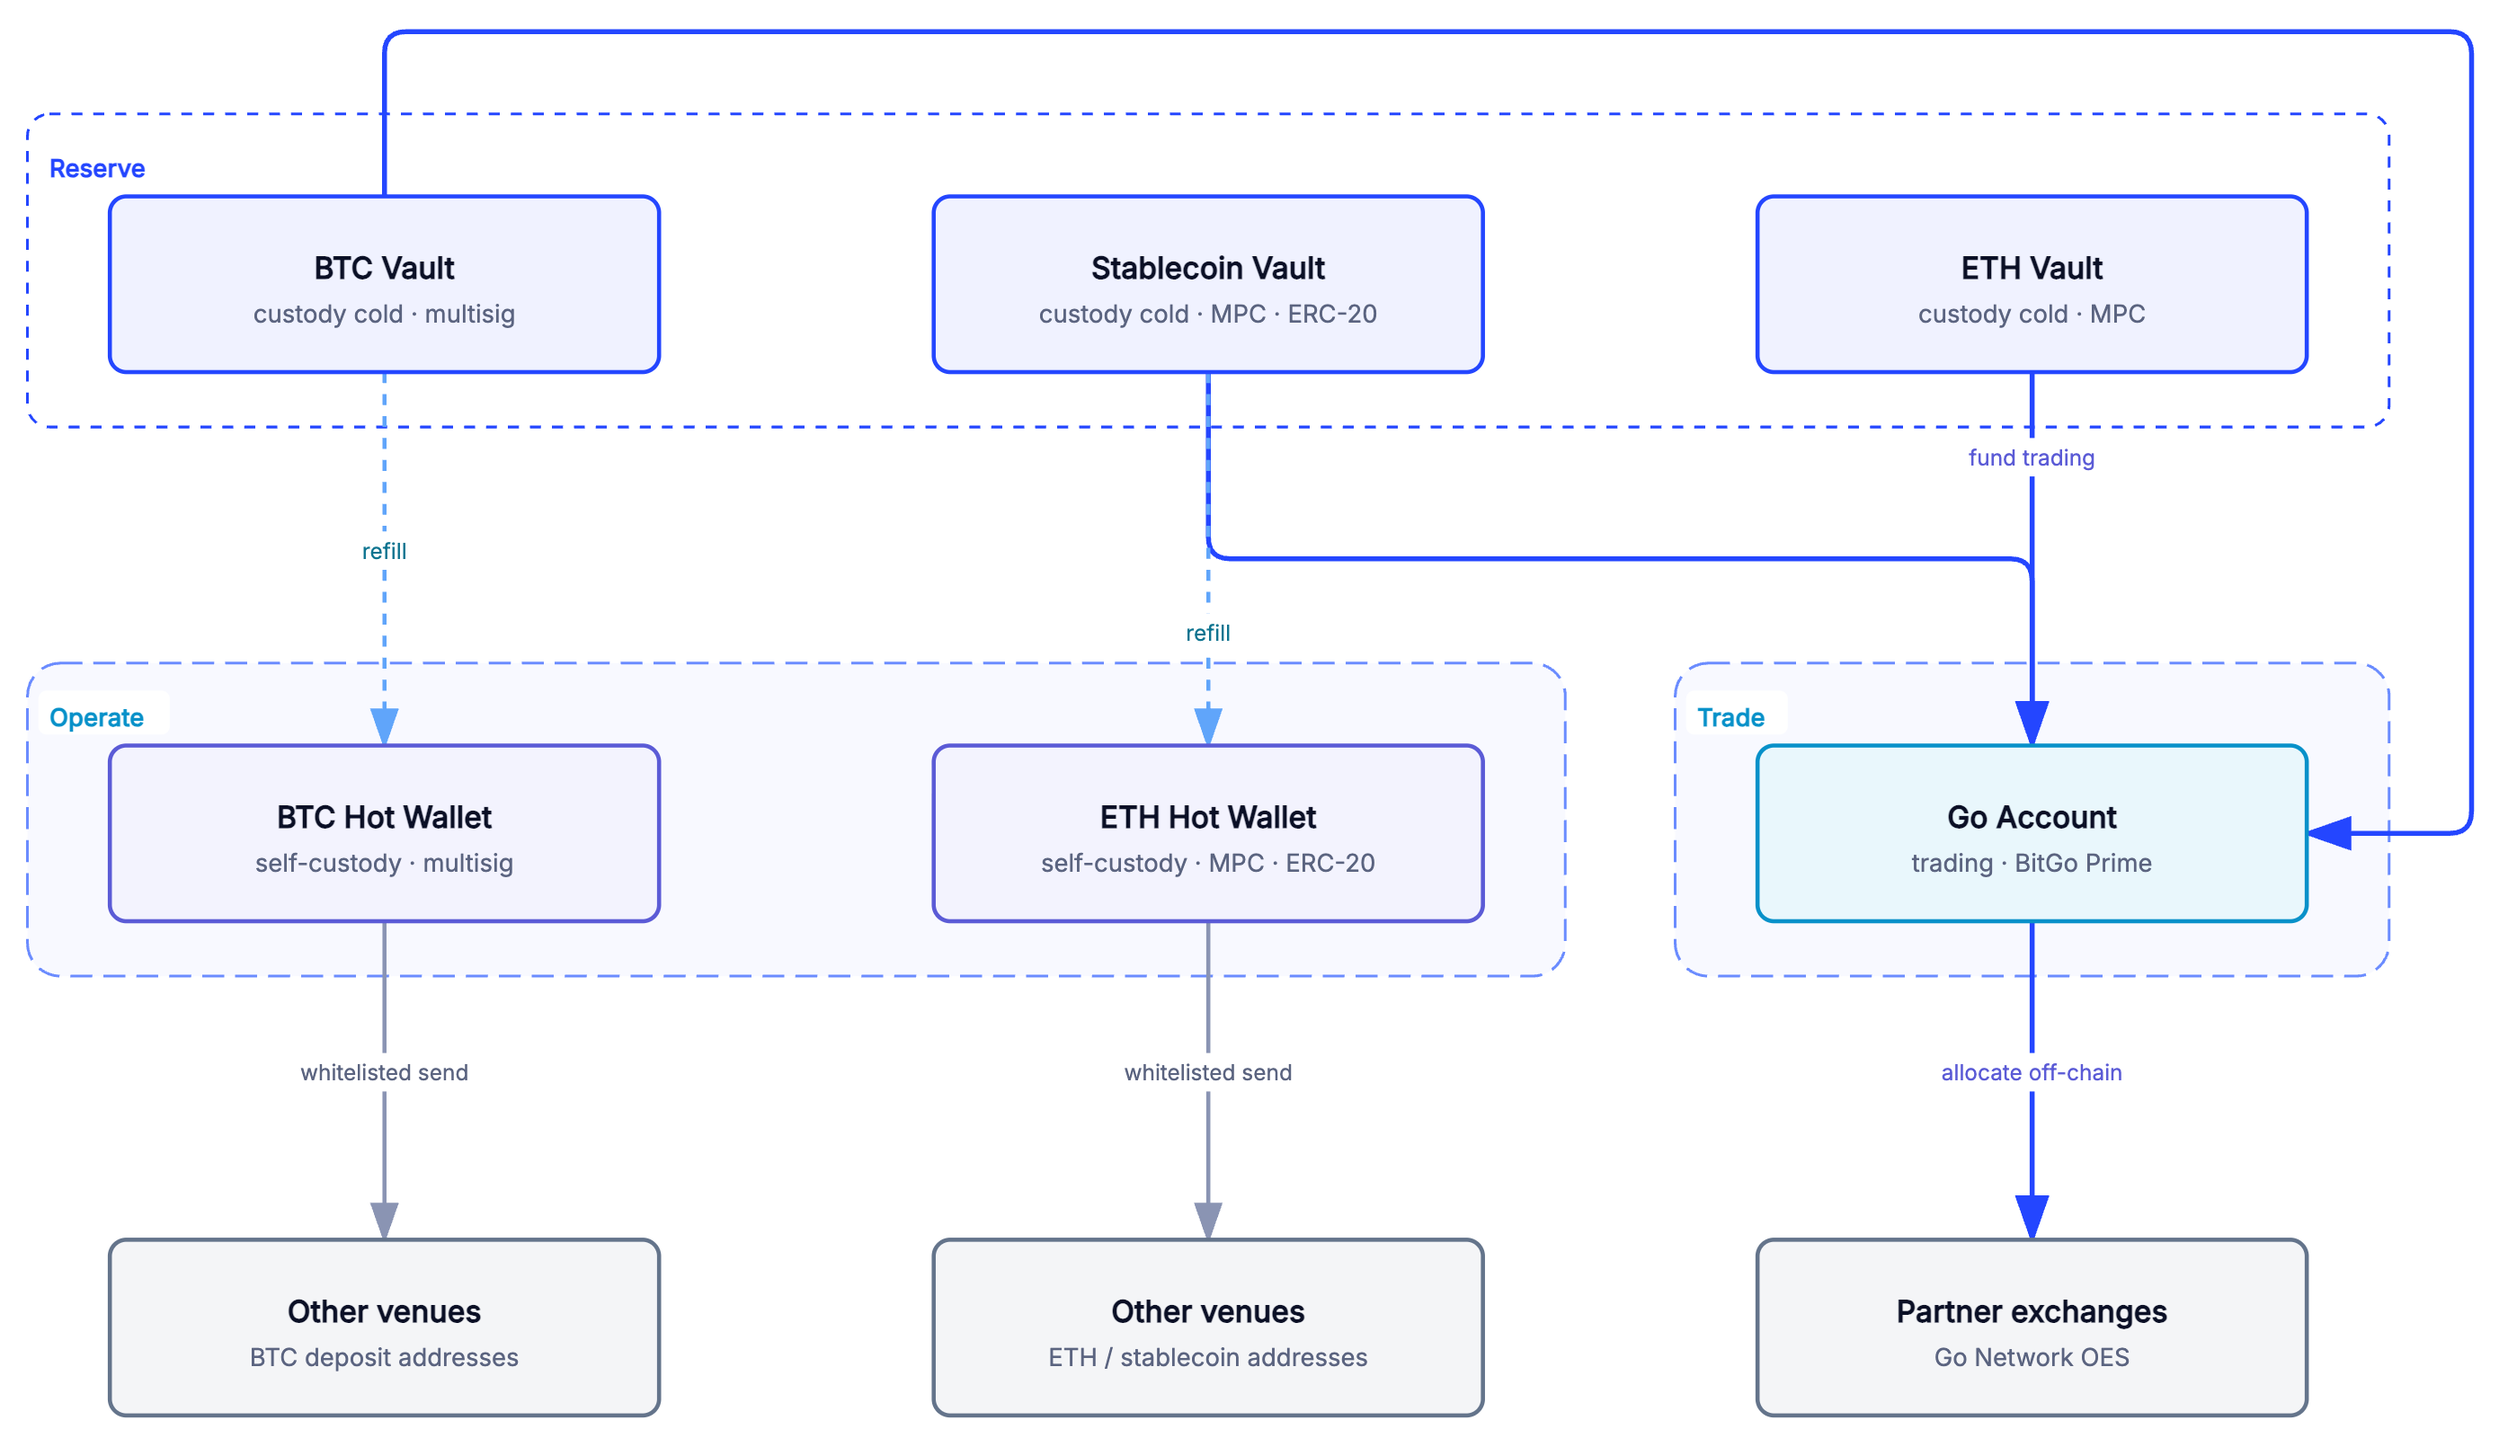
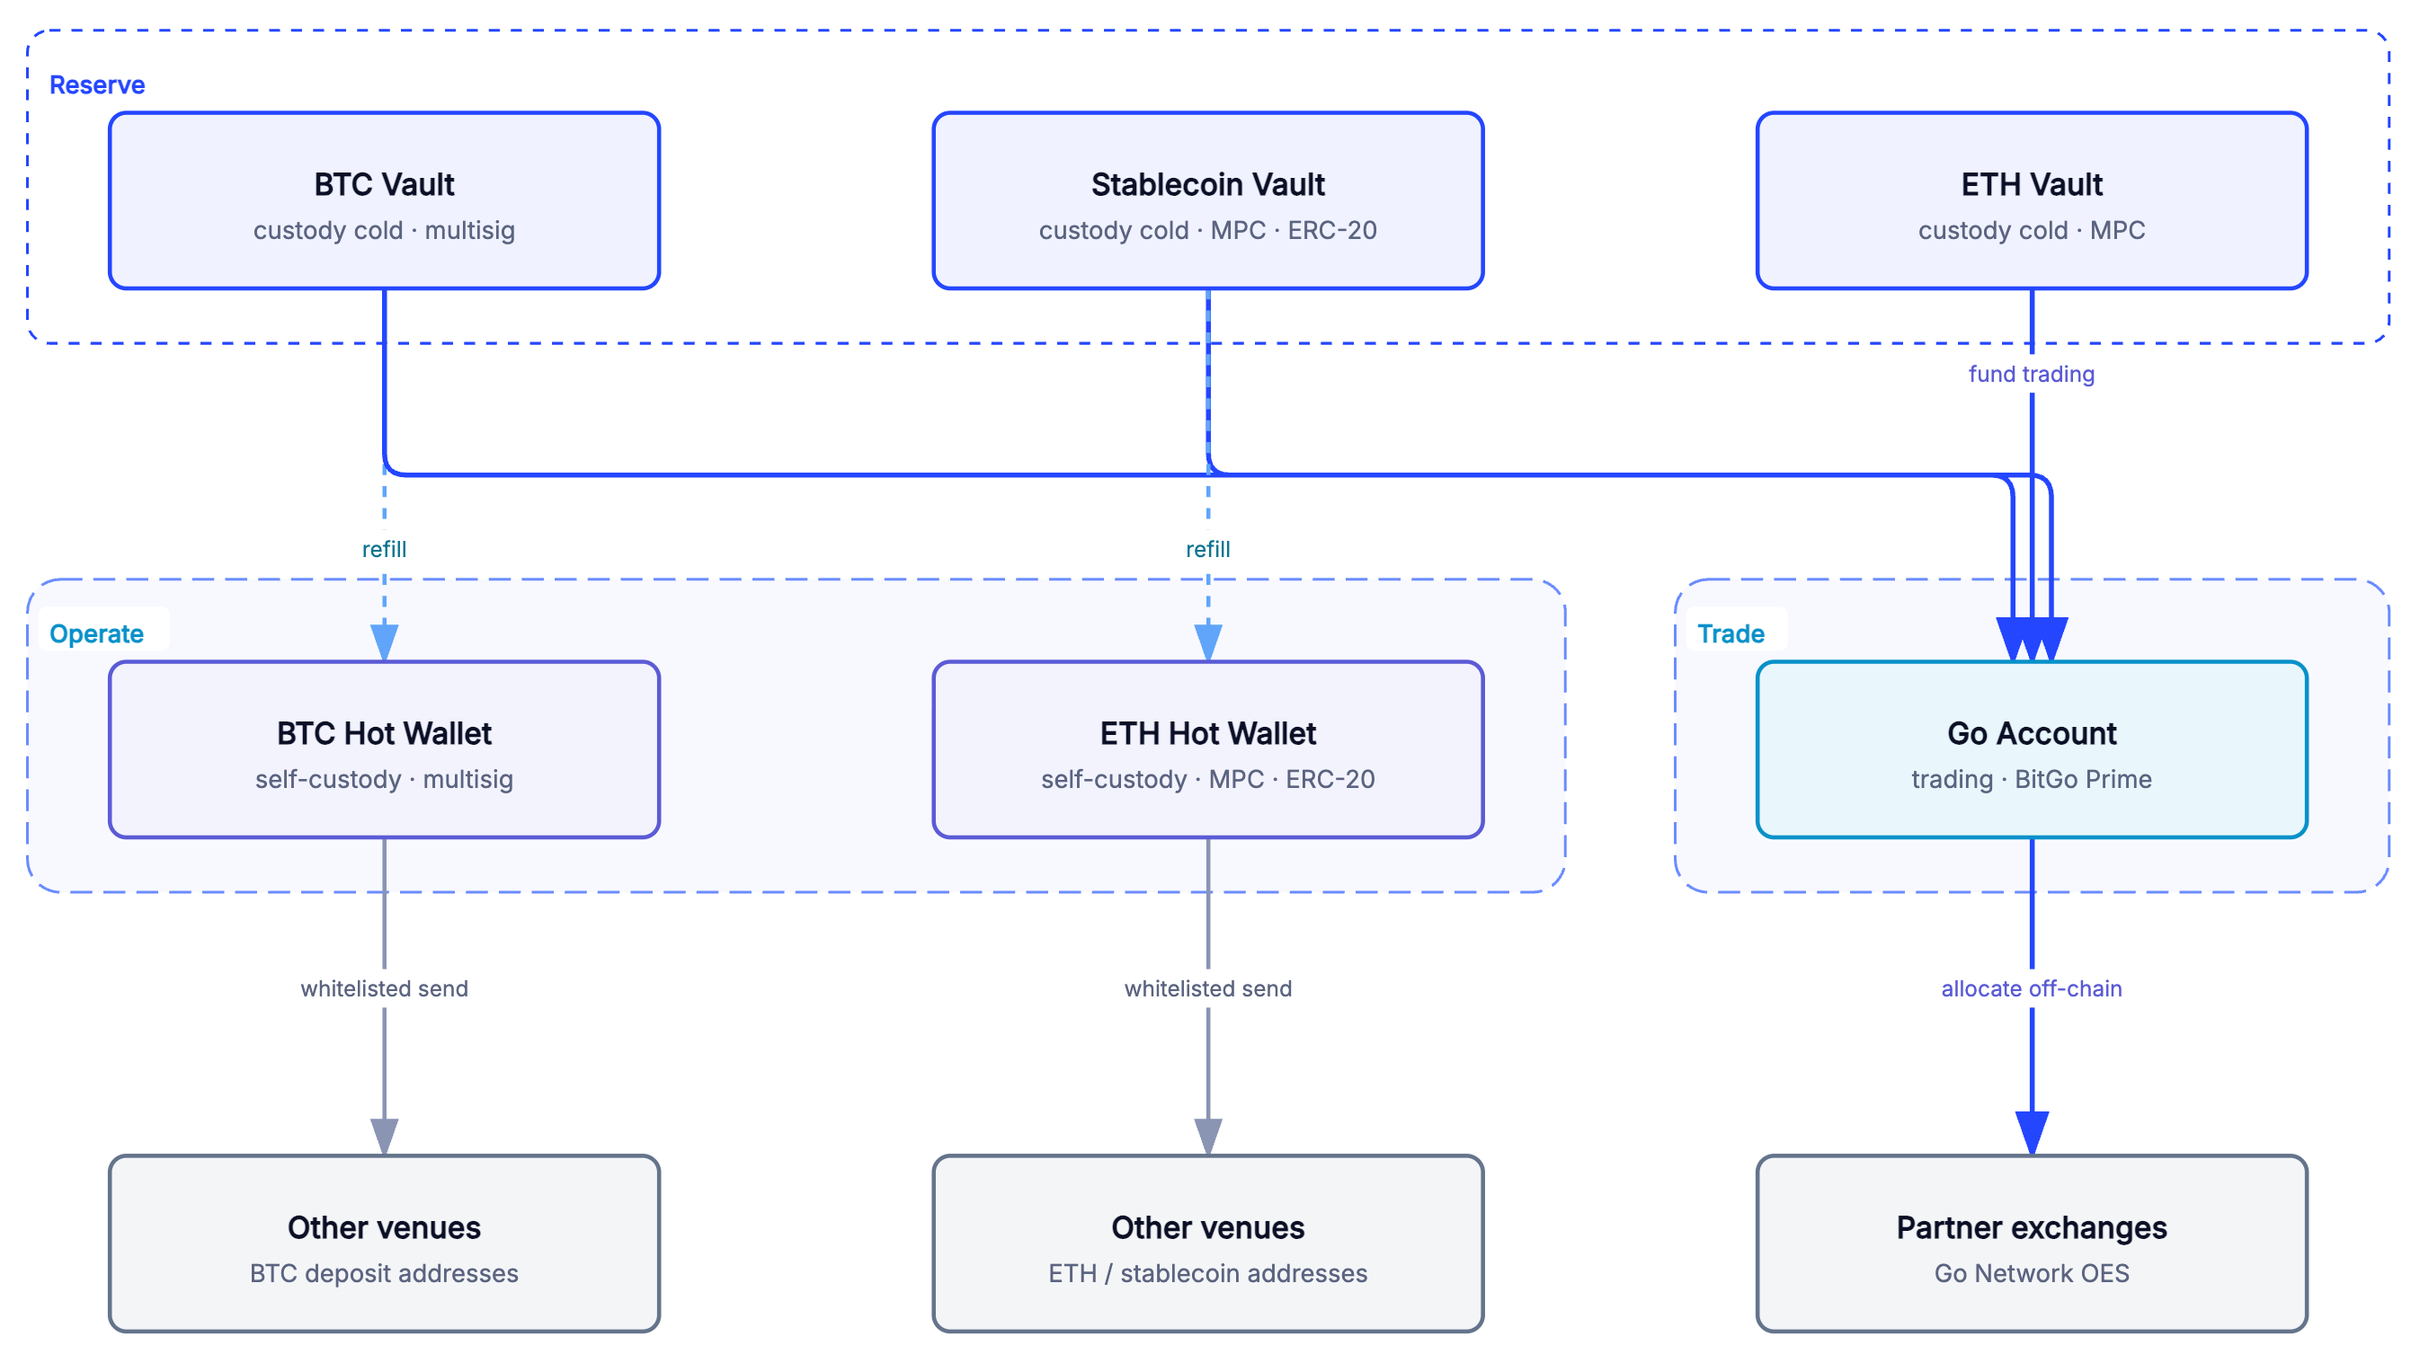
P6 diagram: route BTC funding line through the middle
Compact layout with one accepted crossing; delivered at Archify
standard quality (showcase flags only that crossing).

Claude-Session: https://claude.ai/code/session_01ASWXrKZgVRwzFhRSUgvQmX

diff --git a/slides/bitgo-hedge-fund-pitch/index.tsx b/slides/bitgo-hedge-fund-pitch/index.tsx
@@ -326,7 +326,7 @@ const Tier = ({ title, meets, children }: { title: string; meets: string[]; chil
 const Answer: Page = () => (
   <Frame source={walletTypes} sourceLabel="BitGo wallet types" title="Three tiers, six wallets, one control plane" subtitle="Each tier does one job. Together they cover all six checkpoints.">
     <Split>
-      <Diagram src={architectureImg} alt="Six wallets in three tiers (Reserve, Trade, Operate), drawn with Archify" width={1080} height={625} />
+      <Diagram src={architectureImg} alt="Six wallets in three tiers (Reserve, Trade, Operate), drawn with Archify" width={1080} height={609} />
       <div>
         <Tier title="Reserve · ~85% · 3 vaults" meets={['1', '6']}>Insured custody cold storage</Tier>
         <Tier title="Trade · ~10% · Go Account" meets={['2', '5']}>Trades and borrows inside custody</Tier>

diff --git a/themes/electric-blue.md b/themes/electric-blue.md
@@ -373,4 +373,4 @@ svg text { font-family: 'Inter', system-ui, sans-serif !important; }
 .c-region { fill: rgba(36,70,255,0.03) !important; stroke: #6b8cff !important; }
 ```
 
-Reference sources: `slides/bitgo-hedge-fund-pitch/assets/archify/wallet-architecture.architecture.json` (tiers as Reserve / Operate / Trade boundaries; hot wallets sit left, Go Account right, and the BTC vault funds the Go Account over the top to avoid edge crossings) and `slides/bitgo-hedge-fund-proposal/assets/archify/*.json` for the other two. Of these, `capital-flow` is the dataflow that needs lanes hidden.
+Reference sources: `slides/bitgo-hedge-fund-pitch/assets/archify/wallet-architecture.architecture.json` (tiers as Reserve / Operate / Trade boundaries; hot wallets sit left, Go Account right; one accepted crossing, so it is delivered at `--quality standard`) and `slides/bitgo-hedge-fund-proposal/assets/archify/*.json` for the other two. Of these, `capital-flow` is the dataflow that needs lanes hidden.
